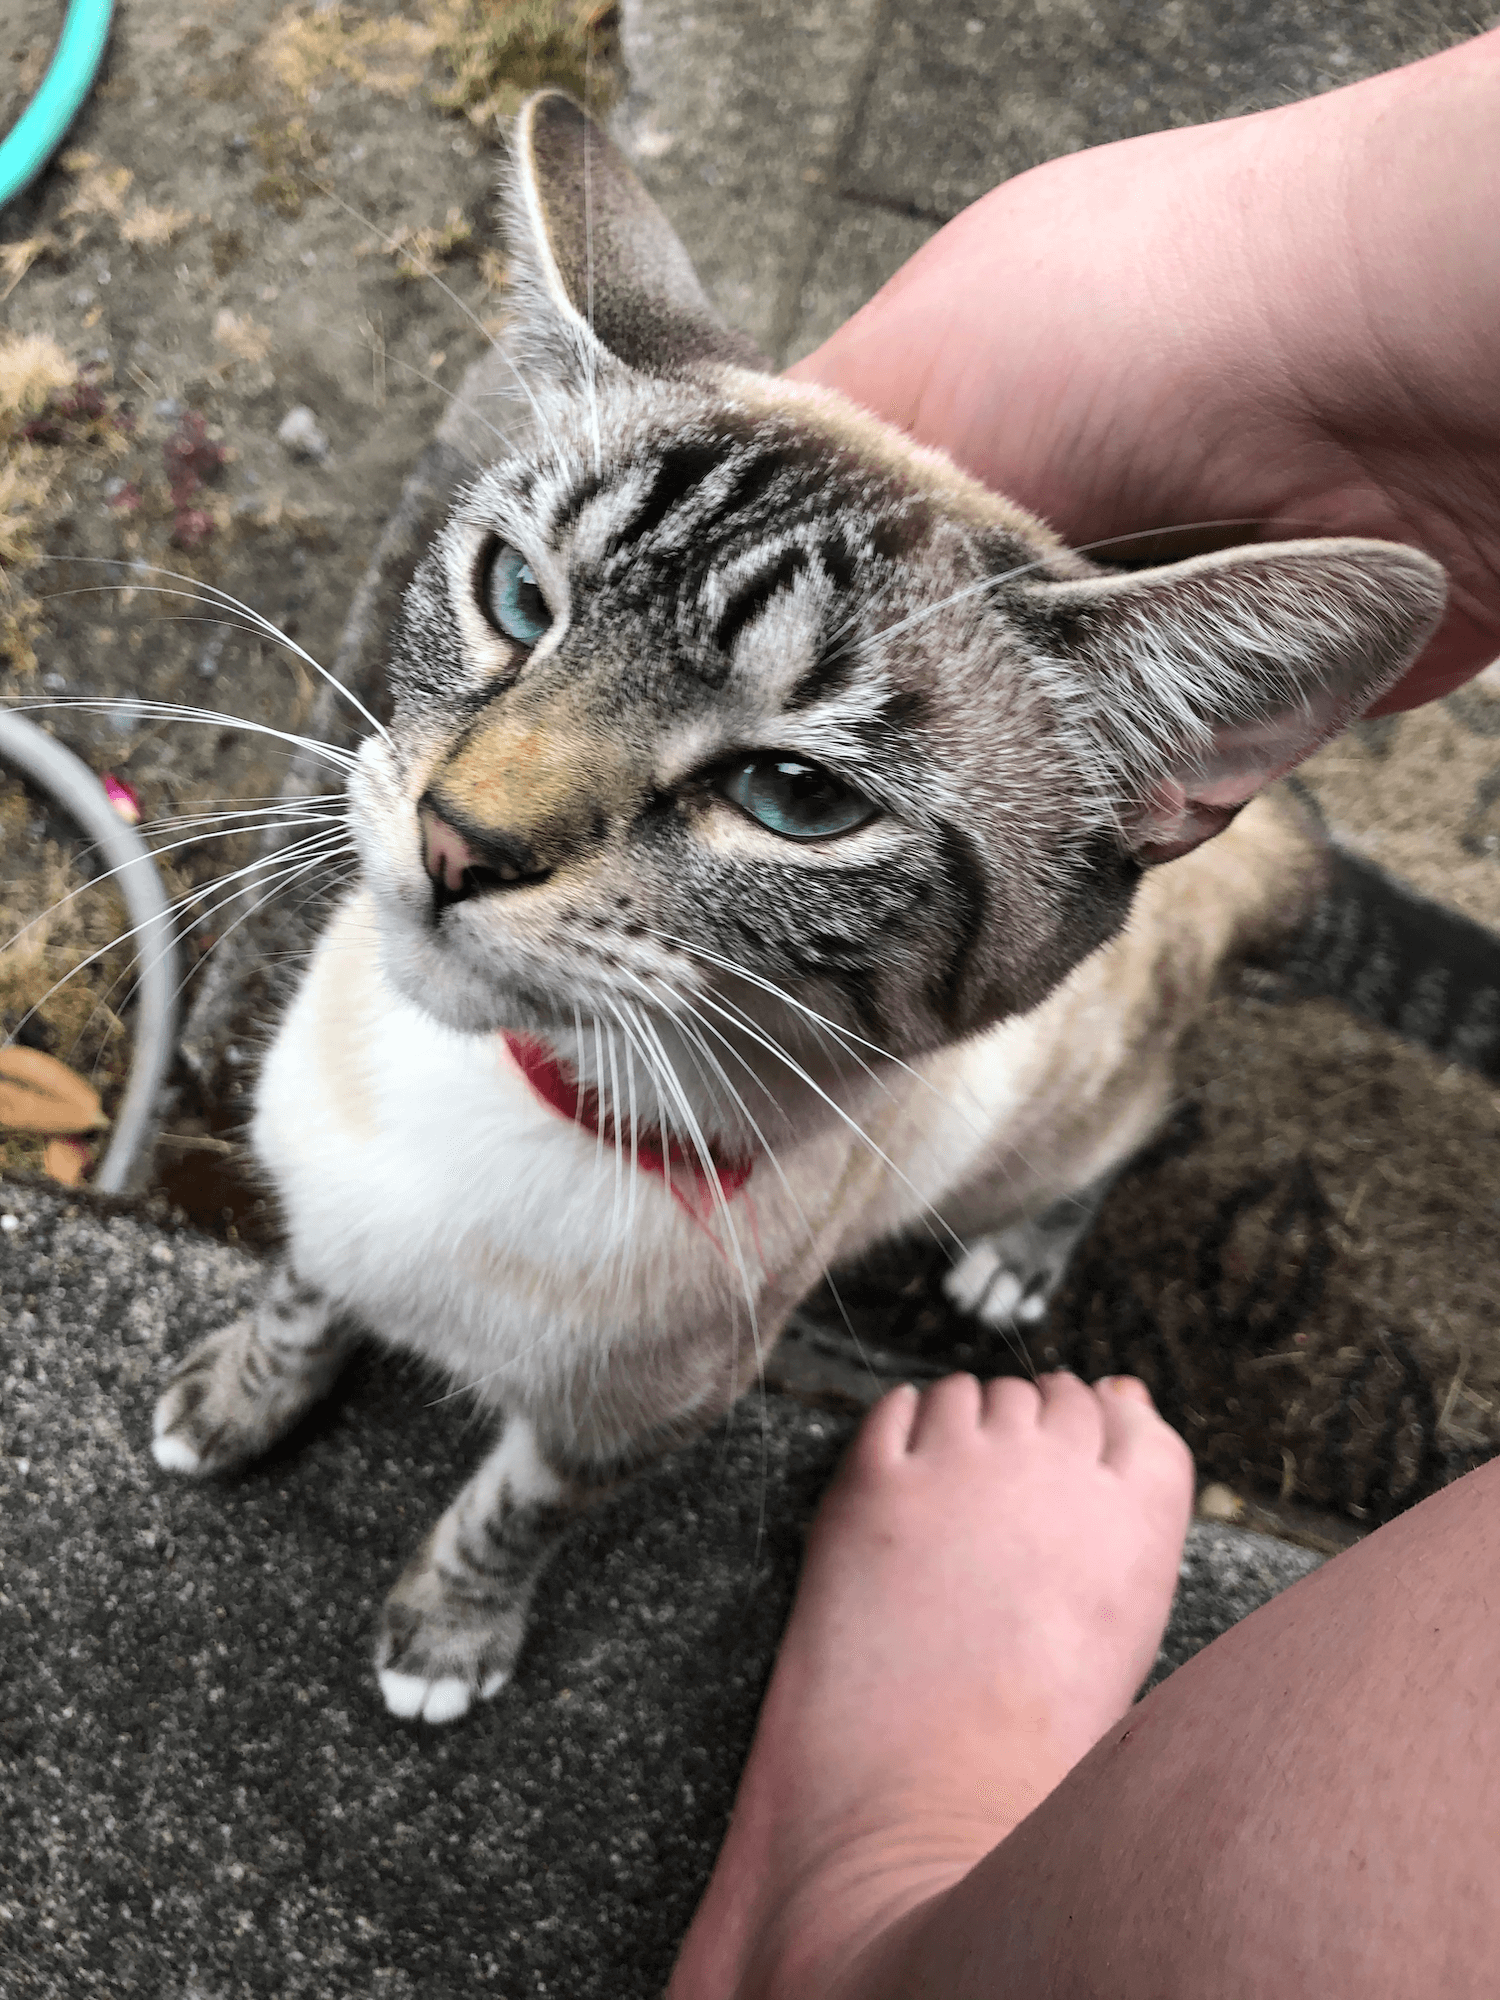
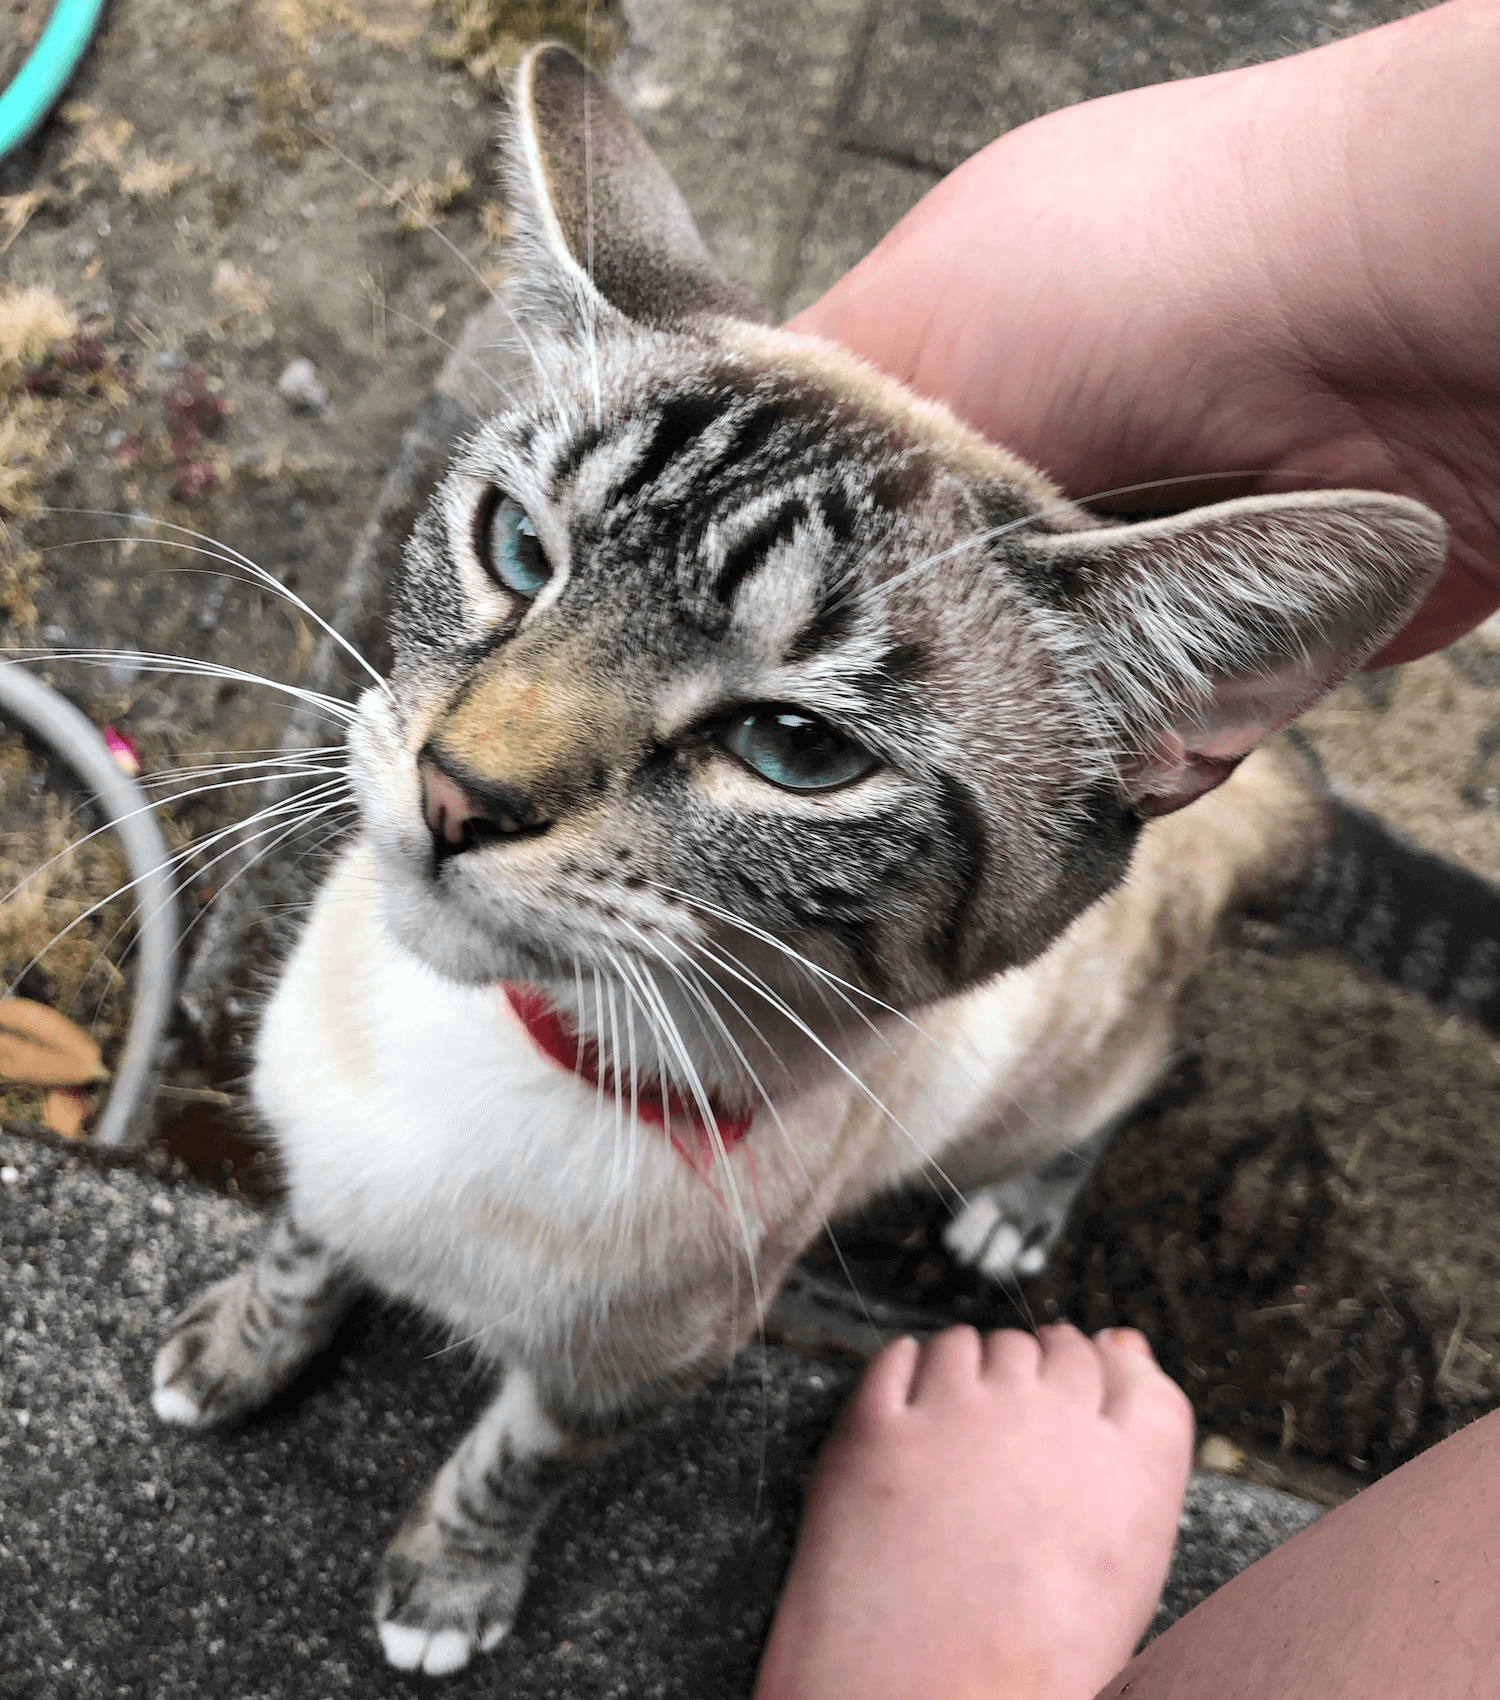
add image and responsify

diff --git a/src/App.css b/src/App.css
@@ -19,9 +19,15 @@
   display: flex;
   flex-direction: column;
   align-items: center;
-  justify-content: center;
+  justify-content: flex-start;
   font-size: calc(10px + 2vmin);
   color: white;
+  padding-bottom: 60px;
+  padding-top: 40px;
+}
+
+.App-header p {
+  margin-top: 0;
 }
 
 .App-link {
@@ -40,11 +46,63 @@
   color: rgb(41, 186, 165);
 }
 
+.images {
+  display: flex;
+  width: 416px;
+  margin-bottom: 16px;
+}
+
+.images .cat {
+  max-width: 100%;
+  align-self: center;
+}
+
+.images .cat:last-child {
+  order: -1;
+  margin-right: 16px;
+}
+
+.images img {
+  display: block;
+  max-width: 100%;
+  height: auto;
+}
+
 @keyframes App-logo-spin {
   from {
     transform: rotate(0deg);
   }
   to {
     transform: rotate(360deg);
+  }
+}
+
+@media (min-height: 505px) {
+  .images {
+    flex-direction: column;
+    width: 200px;
+    margin-bottom: 24px;
+  }
+
+  .images .cat:last-child {
+    margin-bottom: 16px;
+    margin-right: 0;
+  }
+}
+
+@media (min-width: 768px) {
+  .images {
+    width: 300px;
+  }
+}
+
+@media (min-width: 1024px) {
+  .images {
+    width: 916px;
+    flex-direction: row;
+  }
+  .images .cat:last-child {
+    margin-bottom: 0;
+    margin-right: 16px;
   }
 }

diff --git a/src/App.js b/src/App.js
@@ -1,5 +1,6 @@
 import React from 'react';
 import cat from './cat.png';
+import catWink from './cat_wink.jpg';
 import './App.css';
 
 function App() {
@@ -25,12 +26,21 @@ function App() {
   return (
     <div className="App">
       <header className="App-header">
-        <img src={cat} className="App-logo" alt="cat" />
         <p>
           your cat is the coolest
         </p>
-        <p style={{ fontSize: '18px' }}>
-          feel free to email us sometime 🙂
+        <div
+          className="images"
+        >
+          <div className="cat">
+            <img src={cat} className="App-logo" alt="cat" />
+          </div>
+          <div className="cat">
+            <img src={catWink} className="App-logo" alt="cat" />
+          </div>
+        </div>
+        <p style={{ fontSize: '18px', marginBottom: '0' }}>
+          feel free to email us sometime <span role="img" aria-label="Cat smile">😸</span>
           <br />
           <a
             className="App-link"
@@ -41,6 +51,7 @@ function App() {
             }}
           >
             <input
+              readOnly
               id="email"
               value="hi@yourcatiscool.com"
               ref={inputEl}

diff --git a/src/index.css b/src/index.css
@@ -13,6 +13,7 @@ body {
     sans-serif;
   -webkit-font-smoothing: antialiased;
   -moz-osx-font-smoothing: grayscale;
+  background-color: #282c34;
 }
 
 code {
